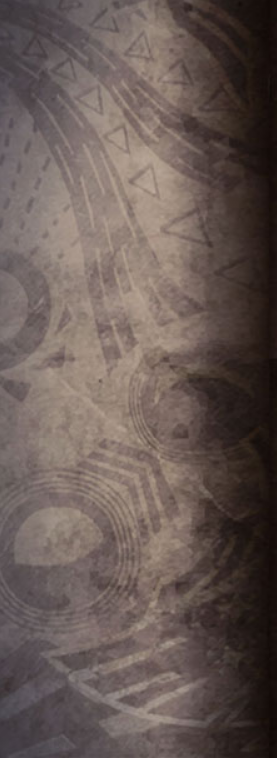
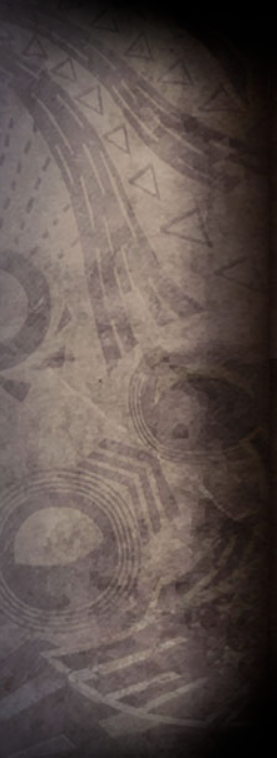
Movable window + remade backgrounds

Changed region(s): [[0.0, 0.0, 0.9531, 0.1214], [0.0289, 0.8799, 1.0, 1.0], [0.9819, 0.0303, 1.0, 0.0607]]

diff --git a/Pol_Arcane/MainWindow.xaml b/Pol_Arcane/MainWindow.xaml
@@ -12,6 +12,7 @@
         Width="1060"
         AllowsTransparency="True"
         WindowStartupLocation="CenterScreen"
+        ResizeMode="NoResize"
         WindowStyle="None"
         Background="Transparent">
 
@@ -19,50 +20,57 @@
         <vm:NavigationVM/>
     </Window.DataContext>
     <Grid>
-        <!--// Window Border //-->
-        <Border Background="#212529"
+        <Grid.RowDefinitions>
+            <RowDefinition Height="20"/>
+            <RowDefinition Height="*"/>
+        </Grid.RowDefinitions>
+        <Border Grid.Row="0" MouseDown="Border_MouseDown" Background="Black">
+        </Border>
+        <Grid Grid.Row="1">
+            <!--// Window Border //-->
+            <Border Background="#212529"
                 CornerRadius="20" />
-        <Grid>
-            <!--// Base Grid //-->
-            <Grid.ColumnDefinitions>
-                <ColumnDefinition Width="228" />
-                <ColumnDefinition Width="622" />
-            </Grid.ColumnDefinitions>
+            <Grid>
+                <!--// Base Grid //-->
+                <Grid.ColumnDefinitions>
+                    <ColumnDefinition Width="228" />
+                    <ColumnDefinition Width="622" />
+                </Grid.ColumnDefinitions>
 
-            <!--// Navigation Panel //-->
-            <Grid HorizontalAlignment="Left" Panel.ZIndex="1"
+                <!--// Navigation Panel //-->
+                <Grid HorizontalAlignment="Left" Panel.ZIndex="1"
                   Width="228">
-                <Border Background="Transparent"
+                    <Border Background="Transparent"
                         CornerRadius="20,0,0,20">
-                    <Image Source="/images/main_menu.png" Stretch="Fill"/>
-                </Border>
+                        <Image Source="/images/main_menu.png" Stretch="Fill"/>
+                    </Border>
 
-                <StackPanel Height="400"
+                    <StackPanel Height="400"
                             Width="228">
 
-                    <!--// Home //-->
-                    <Grid>
-                        <Menu:Btn Style="{StaticResource BtnStyle}"
+                        <!--// Home //-->
+                        <Grid>
+                            <Menu:Btn Style="{StaticResource BtnStyle}"
                               Command="{Binding HomeCommand}"
                               IsChecked="True">
 
-                            <Grid>
-                                <Image Source="/images/mh_logo.png" Margin="0,-77,0,0"/>
-                            </Grid>
+                                <Grid>
+                                    <Image Source="/images/mh_logo.png" Margin="0,-77,0,0"/>
+                                </Grid>
 
-                        </Menu:Btn>
+                            </Menu:Btn>
 
-                    </Grid>
+                        </Grid>
 
-                    <!--// Players //-->
+                        <!--// Players //-->
 
-                    <Grid>
-                        <Menu:Btn Style="{StaticResource BtnStyle}"
+                        <Grid>
+                            <Menu:Btn Style="{StaticResource BtnStyle}"
                         Command="{Binding MonsterCommand}">
 
-                            <Grid>
+                                <Grid>
 
-                                <Image Source="/images/menu_signs/monsters_sign.jpg"
+                                    <Image Source="/images/menu_signs/monsters_sign.jpg"
                                 Style="{StaticResource Image_Style}" 
                                        Height="25" 
                                        Width="206" 
@@ -70,22 +78,22 @@
                                        VerticalAlignment="Top" 
                                        HorizontalAlignment="Center" />
 
-                            </Grid>
+                                </Grid>
 
-                        </Menu:Btn>
+                            </Menu:Btn>
 
-                    </Grid>
+                        </Grid>
 
 
-                    <!--// Weapons //-->
+                        <!--// Weapons //-->
 
-                    <Grid>
-                        <Menu:Btn Style="{StaticResource BtnStyle}"
+                        <Grid>
+                            <Menu:Btn Style="{StaticResource BtnStyle}"
                             Command="{Binding WeaponCommand}">
 
-                            <Grid>
+                                <Grid>
 
-                                <Image Source="/images/menu_signs/weapons_sign.jpg"
+                                    <Image Source="/images/menu_signs/weapons_sign.jpg"
 Style="{StaticResource Image_Style}" 
        Height="25" 
        Width="206" 
@@ -93,20 +101,20 @@ Style="{StaticResource Image_Style}"
        VerticalAlignment="Top" 
        HorizontalAlignment="Center" />
 
-                            </Grid>
+                                </Grid>
 
-                        </Menu:Btn>
-                    </Grid>
+                            </Menu:Btn>
+                        </Grid>
 
-                    <!--// Armor sets //-->
+                        <!--// Armor sets //-->
 
-                    <Grid>
-                        <Menu:Btn Style="{StaticResource BtnStyle}"
+                        <Grid>
+                            <Menu:Btn Style="{StaticResource BtnStyle}"
         Command="{Binding ArmorCommand}">
 
-                            <Grid>
+                                <Grid>
 
-                                <Image Source="/images/menu_signs/armor_sign.jpg"
+                                    <Image Source="/images/menu_signs/armor_sign.jpg"
 Style="{StaticResource Image_Style}" 
        Height="25" 
        Width="206" 
@@ -114,20 +122,20 @@ Style="{StaticResource Image_Style}"
        VerticalAlignment="Top" 
        HorizontalAlignment="Center" />
 
-                            </Grid>
+                                </Grid>
 
-                        </Menu:Btn>
-                    </Grid>
+                            </Menu:Btn>
+                        </Grid>
 
-                    <!--// Skills //-->
+                        <!--// Skills //-->
 
-                    <Grid>
-                        <Menu:Btn Style="{StaticResource BtnStyle}"
+                        <Grid>
+                            <Menu:Btn Style="{StaticResource BtnStyle}"
         Command="{Binding SkillCommand}">
 
-                            <Grid>
+                                <Grid>
 
-                                <Image Source="/images/menu_signs/skills_sign.jpg"
+                                    <Image Source="/images/menu_signs/skills_sign.jpg"
 Style="{StaticResource Image_Style}" 
        Height="25" 
        Width="206" 
@@ -135,20 +143,20 @@ Style="{StaticResource Image_Style}"
        VerticalAlignment="Top" 
        HorizontalAlignment="Center" />
 
-                            </Grid>
+                                </Grid>
 
-                        </Menu:Btn>
-                    </Grid>
+                            </Menu:Btn>
+                        </Grid>
 
-                    <!--// Maps //-->
+                        <!--// Maps //-->
 
-                    <Grid>
-                        <Menu:Btn Style="{StaticResource BtnStyle}"
+                        <Grid>
+                            <Menu:Btn Style="{StaticResource BtnStyle}"
         Command="{Binding MapCommand}">
 
-                            <Grid>
+                                <Grid>
 
-                                <Image Source="/images/menu_signs/maps_sign.jpg"
+                                    <Image Source="/images/menu_signs/maps_sign.jpg"
 Style="{StaticResource Image_Style}" 
        Height="25" 
        Width="206" 
@@ -156,22 +164,24 @@ Style="{StaticResource Image_Style}"
        VerticalAlignment="Top" 
        HorizontalAlignment="Center" />
 
-                            </Grid>
+                                </Grid>
 
-                        </Menu:Btn>
-                    </Grid>
+                            </Menu:Btn>
+                        </Grid>
 
-                </StackPanel>
+                    </StackPanel>
+
+                </Grid>
+
+                <Grid Grid.Column="1" Panel.ZIndex="0" Margin="0,0,-210,0">
+                    <ContentControl x:Name="Page" Content="{Binding CurrentView}"/>
+
+                </Grid>
 
             </Grid>
-
-            <Grid Grid.Column="1" Panel.ZIndex="0" Margin="0,0,-210,0">
-                <ContentControl x:Name="Page" Content="{Binding CurrentView}"/>
-
-            </Grid>
-
+            <Button x:Name="CloseApp" Click="CloseApp_Click" Style="{StaticResource ExitApp}"></Button>
         </Grid>
-        <Button x:Name="CloseApp" Click="CloseApp_Click" Style="{StaticResource ExitApp}"></Button>
     </Grid>
+    
 
 </Window>

diff --git a/Pol_Arcane/view/Monsters.xaml b/Pol_Arcane/view/Monsters.xaml
@@ -15,42 +15,42 @@ CornerRadius="0,20,20,0">
         </Border>
 
         <TextBlock Text="Id  :"
-         Foreground="#DBDBDB"
+         Foreground="Black"
          FontSize="20"
          HorizontalAlignment="Left"
          VerticalAlignment="Top"
          Margin="72,146,0,0" />
 
         <TextBlock Text="{Binding Monster_Id}"
-         Foreground="#CED565"
+         Foreground="Black"
          FontSize="20"
          HorizontalAlignment="Left"
          VerticalAlignment="Top"
          Margin="198,148,0,0" RenderTransformOrigin="0.55,2.719" />
 
         <TextBlock Text="Name  :"
-         Foreground="#DBDBDB"
+         Foreground="Black"
          FontSize="20"
          HorizontalAlignment="Left"
          VerticalAlignment="Top"
          Margin="72,205,0,0" RenderTransformOrigin="0.517,3.333" />
 
         <TextBlock Text="{Binding Monster_Name}"
-         Foreground="#CED565"
+         Foreground="Black"
          FontSize="20"
          HorizontalAlignment="Left"
          VerticalAlignment="Top"
          Margin="198,205,0,0" RenderTransformOrigin="0.55,2.719" />
 
         <TextBlock Text="Race  :"
-         Foreground="#DBDBDB"
+         Foreground="Black"
          FontSize="20"
          HorizontalAlignment="Left"
          VerticalAlignment="Top"
          Margin="72,266,0,0" />
 
         <TextBlock Text="{Binding Monster_Type}"
-         Foreground="#CED565"
+         Foreground="Black"
          FontSize="20"
          HorizontalAlignment="Left"
          VerticalAlignment="Top"

diff --git a/Pol_Arcane/view/Weapons.xaml b/Pol_Arcane/view/Weapons.xaml
@@ -14,49 +14,49 @@ CornerRadius="0,20,20,0">
         </Border>
 
         <TextBlock Text="Id  :"
- Foreground="#DBDBDB"
+ Foreground="Black"
  FontSize="20"
  HorizontalAlignment="Left"
  VerticalAlignment="Top"
  Margin="72,146,0,0" />
 
         <TextBlock Text="{Binding Weapon_Id}"
- Foreground="#CED565"
+ Foreground="Black"
  FontSize="20"
  HorizontalAlignment="Left"
  VerticalAlignment="Top"
  Margin="198,148,0,0" RenderTransformOrigin="0.55,2.719" />
 
         <TextBlock Text="Type  :"
- Foreground="#DBDBDB"
+ Foreground="Black"
  FontSize="20"
  HorizontalAlignment="Left"
  VerticalAlignment="Top"
  Margin="72,205,0,0" RenderTransformOrigin="0.517,3.333" />
 
         <TextBlock Text="{Binding Weapon_Type}"
- Foreground="#CED565"
+ Foreground="Black"
  FontSize="20"
  HorizontalAlignment="Left"
  VerticalAlignment="Top"
  Margin="198,205,0,0" RenderTransformOrigin="0.55,2.719" />
 
         <TextBlock Text="Damage  :"
- Foreground="#DBDBDB"
+ Foreground="Black"
  FontSize="20"
  HorizontalAlignment="Left"
  VerticalAlignment="Top"
  Margin="72,266,0,0" />
 
         <TextBlock Text="{Binding Weapon_RawDamage}"
- Foreground="#CED565"
+ Foreground="Black"
  FontSize="20"
  HorizontalAlignment="Left"
  VerticalAlignment="Top"
  FontFamily="/Fonts/#Rubik Medium"
  Margin="198,269,0,0" RenderTransformOrigin="0.55,2.719" />
         <TextBlock Text="Range  :"
-Foreground="#DBDBDB"
+Foreground="Black"
 FontSize="20"
 HorizontalAlignment="Left"
 VerticalAlignment="Top"

diff --git a/Pol_Arcane/view/Home.xaml b/Pol_Arcane/view/Home.xaml
@@ -8,7 +8,7 @@
              d:DesignHeight="450" d:DesignWidth="800">
     <Grid>
         <Border CornerRadius="0,20,20,0" Margin="0,5,5,0">
-            <Image Source="/images/mh-home.jpg" Stretch="Fill" Margin="-15,-13,-16,-20"/>
+            <Image Source="/images/mh-home.jpg" Stretch="Fill" Margin="0,-5,-5,0"/>
         </Border>
 
     </Grid>

diff --git a/Pol_Arcane/MainWindow.xaml.cs b/Pol_Arcane/MainWindow.xaml.cs
@@ -34,5 +34,12 @@ namespace mh
         {
             Close();
         }
+
+        private void Border_MouseDown(object sender, MouseButtonEventArgs e)
+        {
+            if (e.ChangedButton == MouseButton.Left) {
+                this.DragMove();
+            }
+        }
     }
 }
